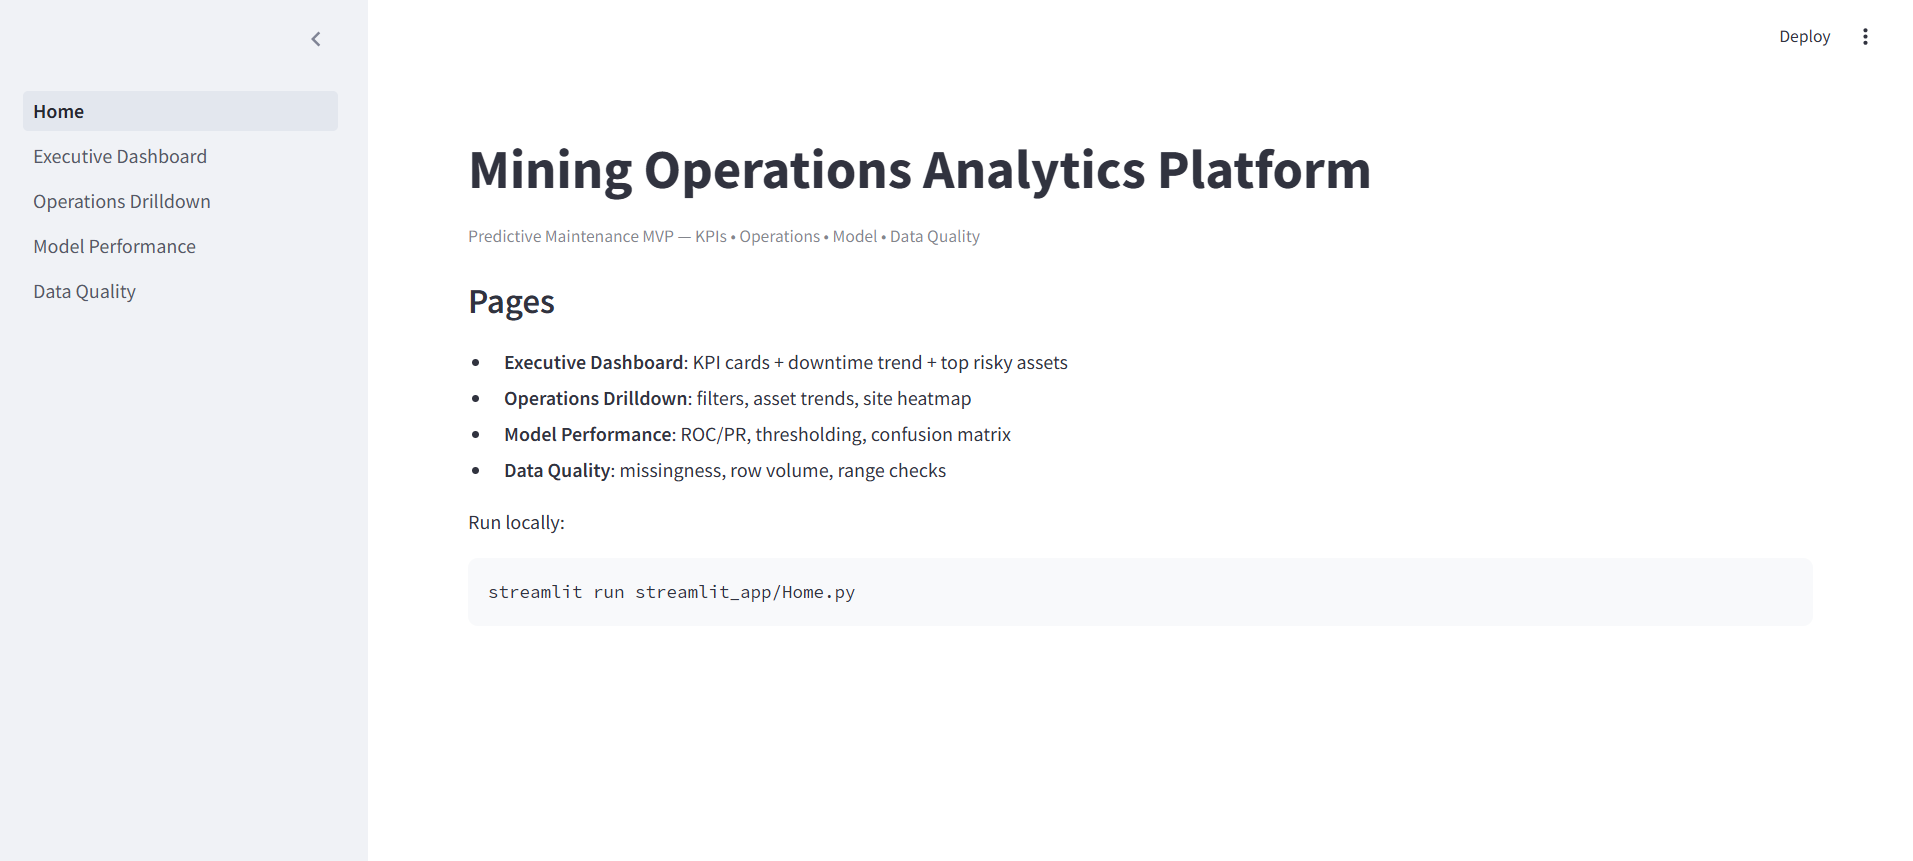
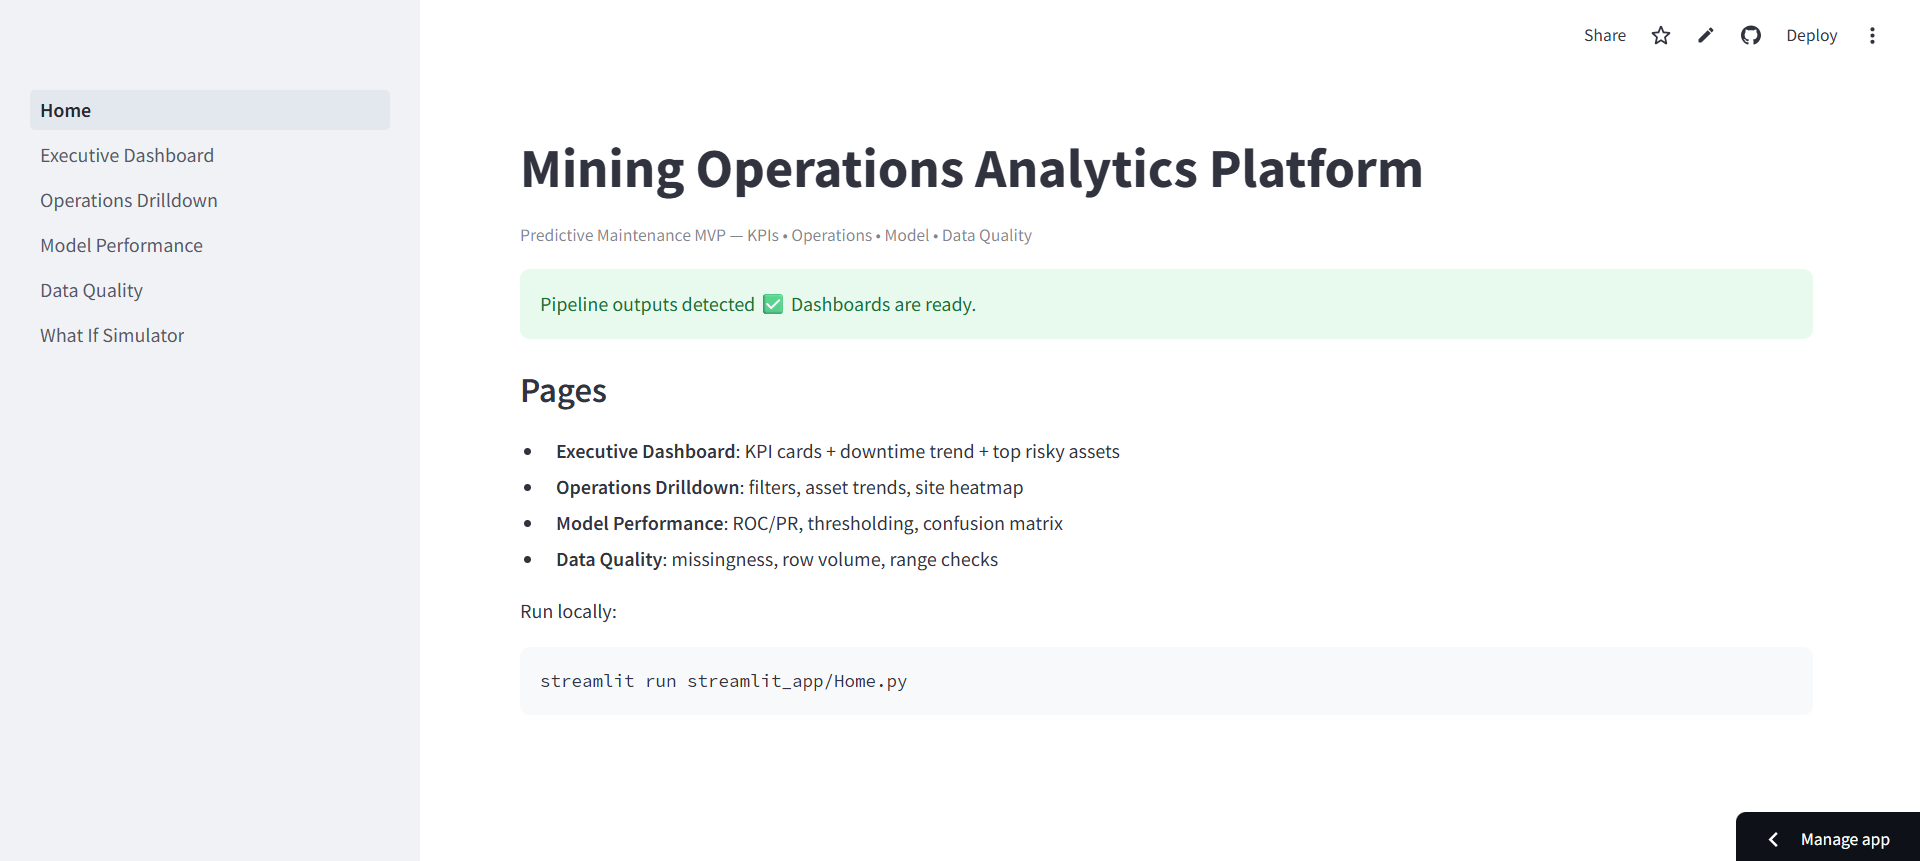
docs: refresh screenshots + feature highlights
- 6 primary screenshots refreshed from live cloud deployment
- 02 Executive Dashboard: OEE breakdown with site/equipment detail
- 03 Operations Drilldown: risk heatmap (site x equipment matrix)
- 04 Model Performance: SHAP per-asset waterfall (HA-0007, base 0.176)
- 05 Data Quality: avg_vib drift overlay (KS 0.95, +75% mean shift)
- 06 What-If Simulator: interactive risk scoring + fleet positioning
- New Feature highlights subsection: cost impact, Pareto, what-if SHAP
- Removed outdated baseline disclaimer
- Roadmap: ticked screenshot refresh

diff --git a/README.md b/README.md
@@ -32,22 +32,37 @@ Built on the **NASA C-MAPSS turbofan benchmark** recast into mining ops framing 
 
 ## Screenshots
 
-_Screenshots reflect baseline pages; latest tab structure and Tier 2/3 features (SHAP, drift detection, risk heatmap, what-if simulator) are best viewed in the live demo._
-
 ### Home
 ![Home](docs/screenshots/01-home.png)
 
-### Executive Dashboard
+### Executive Dashboard — OEE & Reliability
 ![Executive Dashboard](docs/screenshots/02-executive-dashboard.png)
 
-### Operations Drilldown
+### Operations Drilldown — Risk Heatmap
 ![Operations Drilldown](docs/screenshots/03-operations-drilldown.png)
 
-### Model Performance
+### Model Performance — SHAP Per-Asset Waterfall
 ![Model Performance](docs/screenshots/04-model-performance.png)
 
-### Data Quality
+### Data Quality — Distribution Drift Detection
 ![Data Quality](docs/screenshots/05-data-quality.png)
+
+### What-If Simulator — Interactive Risk Scoring
+![What-If Simulator](docs/screenshots/06-what-if-simulator.png)
+
+---
+
+### Feature highlights
+
+**Cost Impact analysis** (Executive Dashboard → Cost Impact tab): $450M annualized cost → $315M avoidable at 70% model catch rate, with configurable $/hour and catch-rate sliders.
+![Cost Impact](docs/screenshots/07-cost-impact.png)
+
+**Downtime Pareto** (Executive Dashboard → Downtime Pareto tab): classic 80/20 — 74 of 100 assets account for 80% of downtime, with cumulative threshold line.
+![Downtime Pareto](docs/screenshots/08-downtime-pareto.png)
+
+**Per-point SHAP explanation** (What-If Simulator): for any slider configuration, on-demand local explanation showing exactly which feature values push risk up (red) or down (blue) from baseline.
+![What-If SHAP explanation](docs/screenshots/09-whatif-shap-explanation.png)
+
 
 ---
 
@@ -162,7 +177,7 @@ App opens at `http://localhost:8501`.
 - [x] **Tier 3** — Risk heatmap (Operations Drilldown)
 - [x] **Tier 3** — KS-test drift detection (Data Quality)
 - [x] **Tier 3** — What-If Simulator with live SHAP local explanations
-- [ ] Refresh screenshots to reflect Tier 2/3 features
+- [x] Refresh screenshots to reflect Tier 2/3 features
 - [ ] Real-time telemetry ingestion (Kafka or polling)
 - [ ] Drift-triggered automated retraining loop
 - [ ] Alert routing (email / Slack / PagerDuty)
